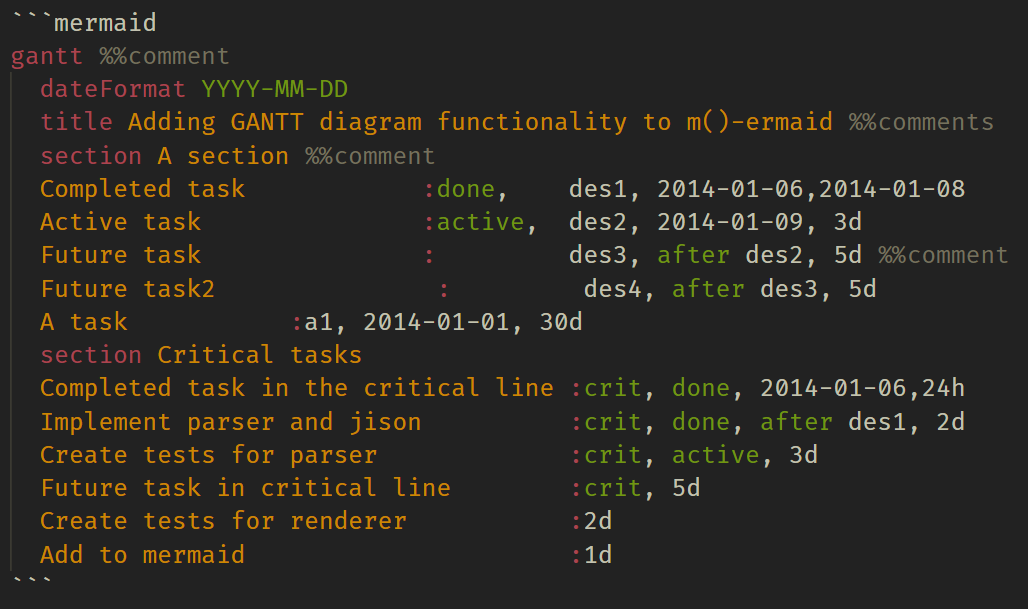
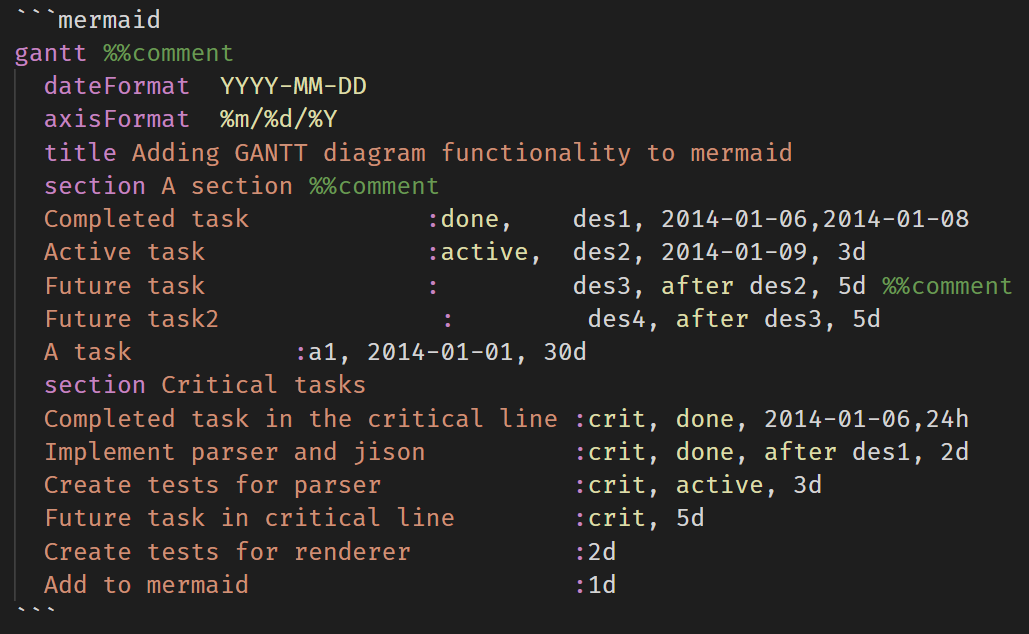
docs: update gantt with axisformat support

Changed region(s): [[0.0, 0.0, 0.9961, 0.9672]]

diff --git a/README.md b/README.md
@@ -120,6 +120,7 @@ sequenceDiagram %% diagram
 ```mermaid
 gantt %%comment
   dateFormat  YYYY-MM-DD
+  axisFormat  %m/%d/%Y
   title Adding GANTT diagram functionality to mermaid
   section A section %%comment
   Completed task            :done,    des1, 2014-01-06,2014-01-08
@@ -139,6 +140,7 @@ gantt %%comment
 - [x] Keywords
 - [x] %% Comments
 - [x] dateFormat
+- [x] axisFormat
 - [x] title
 - [x] section
 - [x] task
